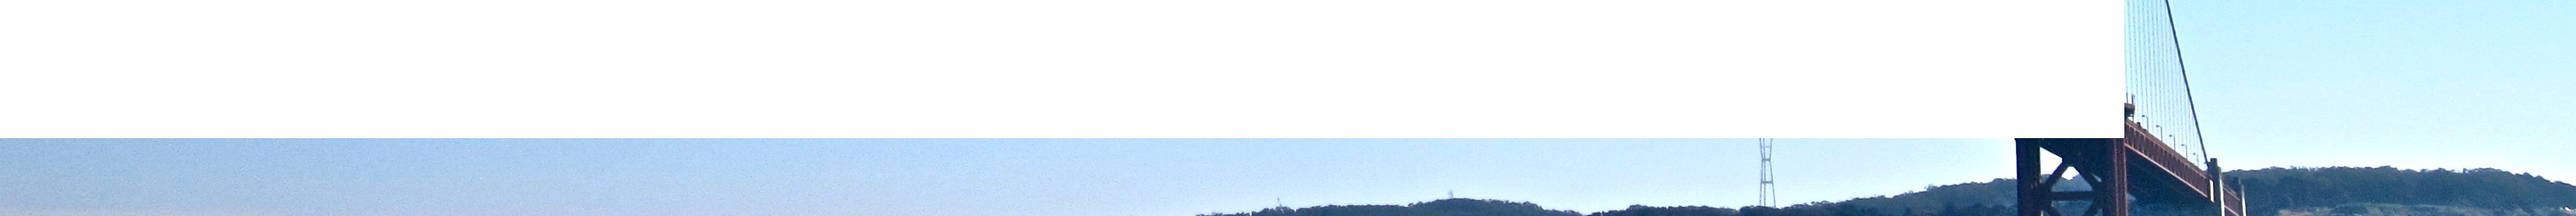
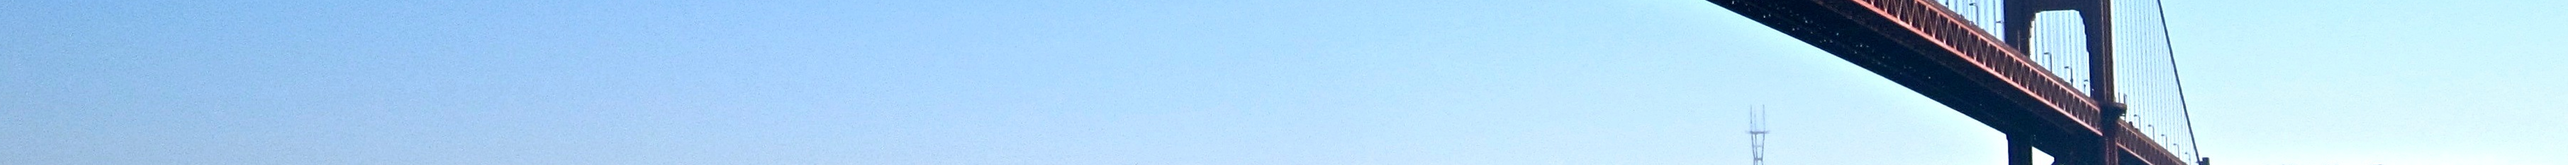
Update About Section

diff --git a/app/assets/stylesheets/custom.css.scss b/app/assets/stylesheets/custom.css.scss
@@ -223,6 +223,7 @@ section#About
 }
 .about-img
 {
+  padding-top: 50px;
   opacity: 0.4;
 }
 a.get-started {
